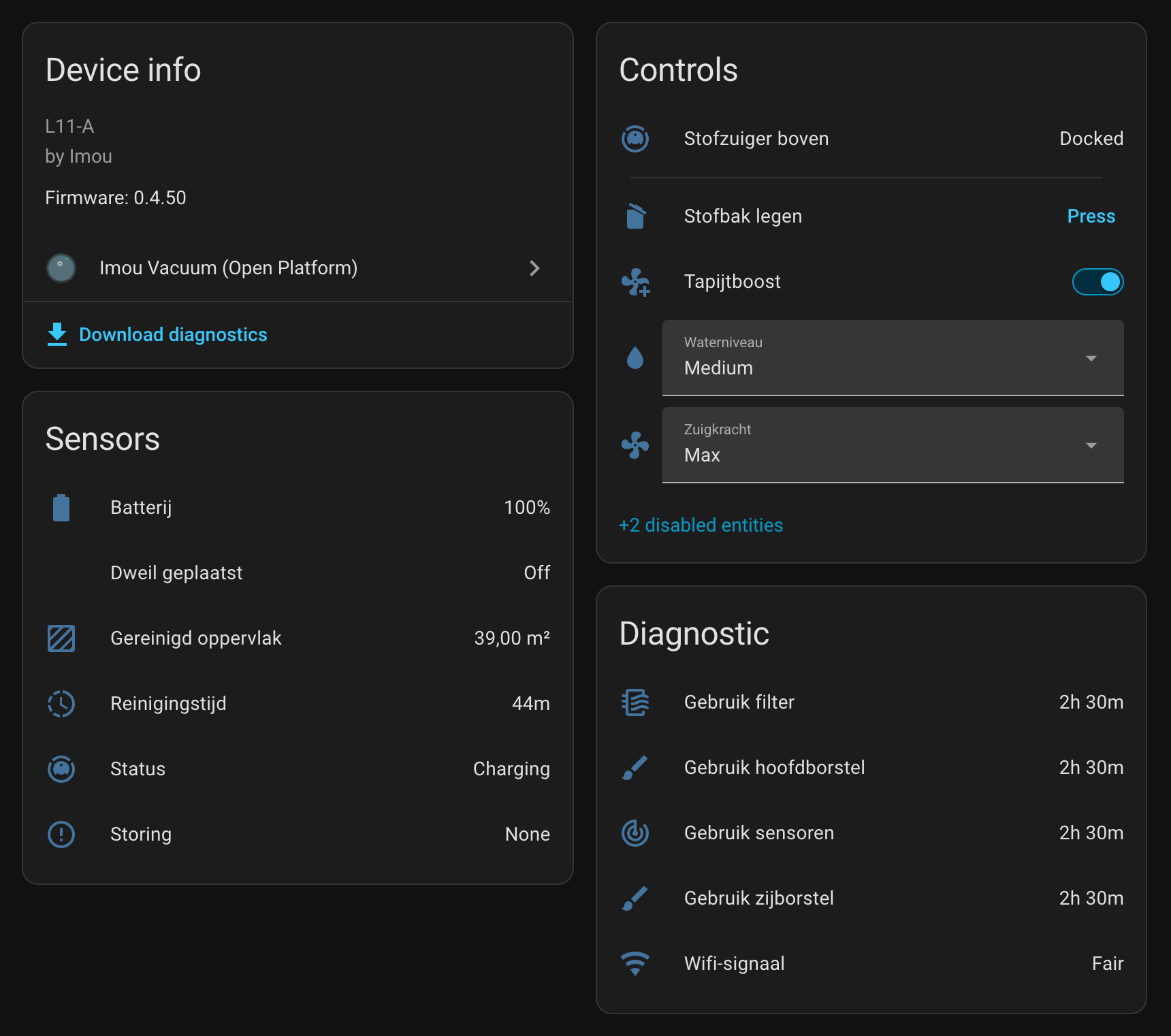
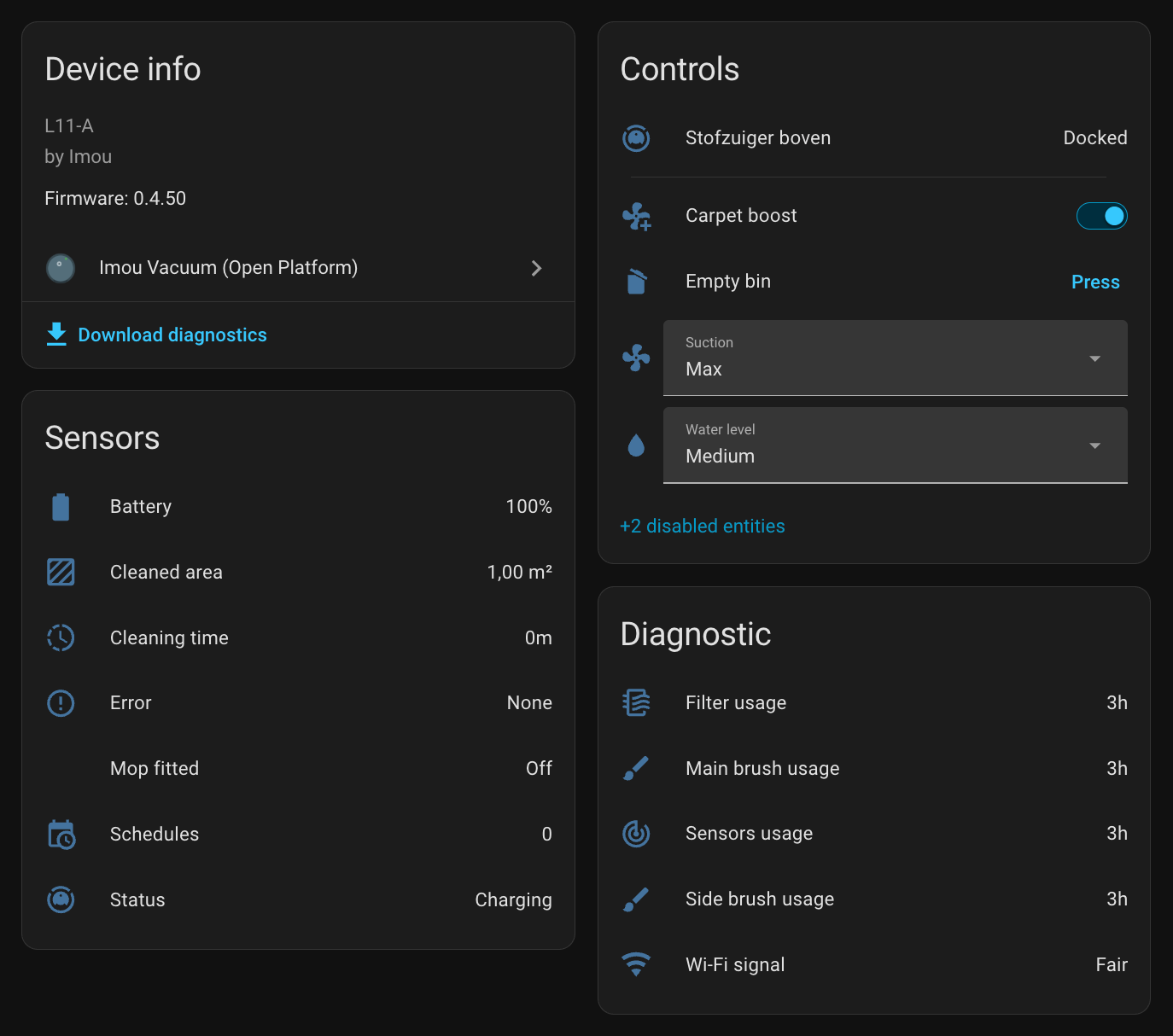
Install from a release zip and refresh the screenshot
HACS now installs the integration from the release asset
imou_vacuum.zip (zip_release in hacs.json), so GitHub counts the
downloads per release. A release workflow builds the zip from
custom_components/imou_vacuum and attaches it when a release is
published, after checking that the tag matches manifest.json. The
zips for v0.2.0 to v0.3.1 were attached by hand.

The README screenshot now shows version 0.3.1 with English entity
names and the schedules sensor. The Development section lists all
pure tests.

diff --git a/tests/smoke_ha.py b/tests/smoke_ha.py
@@ -621,7 +621,10 @@ def test_files() -> None:
         and manifest["issue_tracker"] == "https://github.com/okke-mengerink/ha-imou-robot/issues",
     )  # fmt: skip
     hacs = json.loads((ROOT / "hacs.json").read_text("utf-8"))
-    check("hacs.json", hacs == {"name": "Imou Vacuum (Open Platform)", "homeassistant": "2026.1.0", "render_readme": True}, str(hacs))
+    check("hacs.json", hacs == {"name": "Imou Vacuum (Open Platform)", "homeassistant": "2026.1.0", "render_readme": True, "zip_release": True, "filename": "imou_vacuum.zip"}, str(hacs))
+    # the release workflow zips exactly this folder; the archive name must match hacs.json
+    release_workflow = (ROOT / ".github" / "workflows" / "release.yml").read_text("utf-8")
+    check("release workflow builds and uploads the zip named in hacs.json", f"-o {hacs['filename']}" in release_workflow and f"{hacs['filename']} --clobber" in release_workflow and "HEAD:custom_components/imou_vacuum" in release_workflow)
     check("brand icons present", (PKG_DIR / "brand/icon.png").is_file() and (PKG_DIR / "brand/icon@2x.png").is_file())
 
     # the domain was renamed in 0.2.0: manifest, folder and DOMAIN agree, and nothing of the old name is left

diff --git a/README.md b/README.md
@@ -12,9 +12,9 @@ This custom integration, **Imou Vacuum (Open Platform)**, adds your Imou robot v
 
 > **Using this integration?** Give it a ⭐ on GitHub: stars help other Imou owners find it. Do you have another Imou robot? [Share its diagnostics](#help-us-map-other-models) so it can be supported too.
 
-![Home Assistant device page of an Imou RV-L11-A with the Imou Vacuum (Open Platform) integration: device info, controls, sensors and diagnostic entities](https://raw.githubusercontent.com/okke-mengerink/ha-imou-robot/main/docs/images/device-page.png)
+![Home Assistant device page of an Imou RV-L11-A with the Imou Vacuum (Open Platform) integration: device info, controls, sensors including the schedules sensor, and diagnostic entities](https://raw.githubusercontent.com/okke-mengerink/ha-imou-robot/main/docs/images/device-page.png)
 
-*The device page of an Imou RV-L11-A in Home Assistant. The screenshot is from an installation that runs in Dutch, so its entity names are Dutch; the integration itself ships English names only.*
+*The device page of an Imou RV-L11-A in Home Assistant (version 0.3.1). "Stofzuiger boven" is the name the owner gave the robot.*
 
 ## Why this integration?
 
@@ -315,6 +315,8 @@ python3 -I tests/test_api.py
 python3 -I tests/test_model.py
 python3 -I tests/test_commanded.py
 python3 -I tests/test_health.py
+python3 -I tests/test_probe.py
+python3 -I tests/test_rooms.py
 ```
 
 The smoke test sets the integration up in a bare Home Assistant core with a fake API client (no network, no credentials):
@@ -323,7 +325,9 @@ The smoke test sets the integration up in a bare Home Assistant core with a fake
 uv run --python 3.14 --with "homeassistant==2026.10.2" python -I tests/smoke_ha.py
 ```
 
-Test fixtures contain an anonymised copy of the product-level L11-A things model. Never commit serial numbers, tokens or App IDs.
+Test fixtures contain anonymised copies of the product-level L11-A and RV1 Pro Max things models. Never commit serial numbers, tokens or App IDs.
+
+Releases: HACS installs the integration from the release asset `imou_vacuum.zip` (`zip_release` in `hacs.json`). The workflow `release.yml` builds that zip and attaches it when a release is published, after checking that the tag matches the version in `manifest.json`. GitHub counts the downloads of the zip, which shows roughly how often the integration is installed or updated through HACS.
 
 See the [changelog](https://github.com/okke-mengerink/ha-imou-robot/blob/main/CHANGELOG.md) for what changed per release.
 
